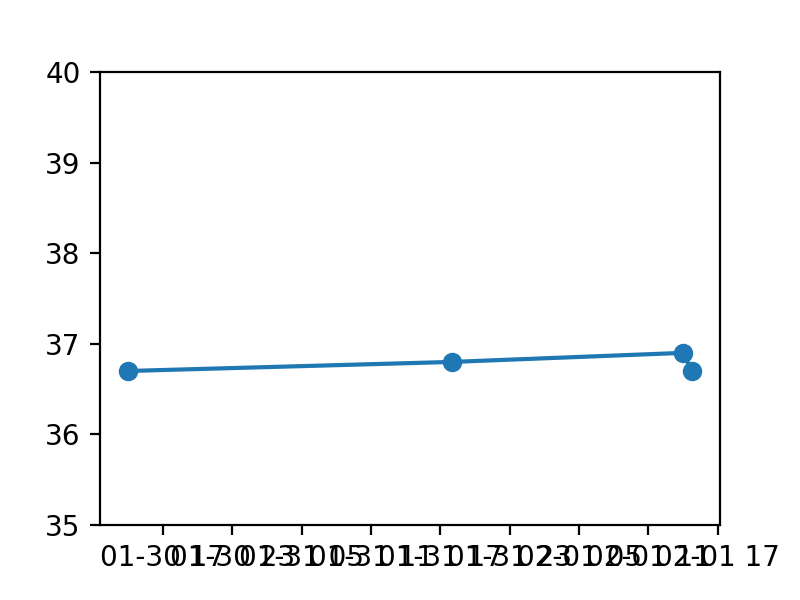
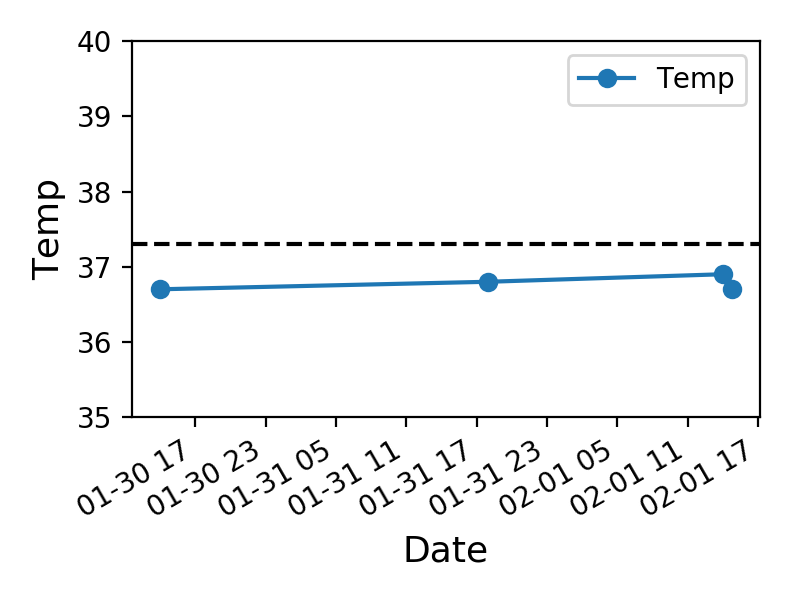
upadte figure style

Changed region(s): [[0.0312, 0.03, 0.9688, 0.96]]

diff --git a/code/draw.py b/code/draw.py
@@ -13,14 +13,20 @@ data_file = '../data/health.xlsx'
 figure_dir = '../figure/'
 
 df = pd.read_excel(data_file)
-df['date'] = pd.to_datetime(df['Date'])
+df['Date'] = pd.to_datetime(df['Date'])
+df.set_index('Date',inplace=True)
 # 绘制体温
 
 fig = plt.figure(figsize=(4,3))
 ax = plt.subplot(111)
 
-ax.plot(df['date'],df['Temp'],'o-',label='Temp')
-ax
+#ax.plot(df['date'],df['Temp'],'o-',label='Temp')
+df.plot(ls='-',marker='o',ax=ax)
 ax.set_ylim(35,40)
-ax.
+ax.axhline(y=37.3,color='k',ls='--')
+
+ax.set_xlabel('Date',fontsize=13)
+ax.set_ylabel('Temp',fontsize=13)
+
+plt.tight_layout()
 plt.savefig(f'{figure_dir}/temp.png',dpi=200)
